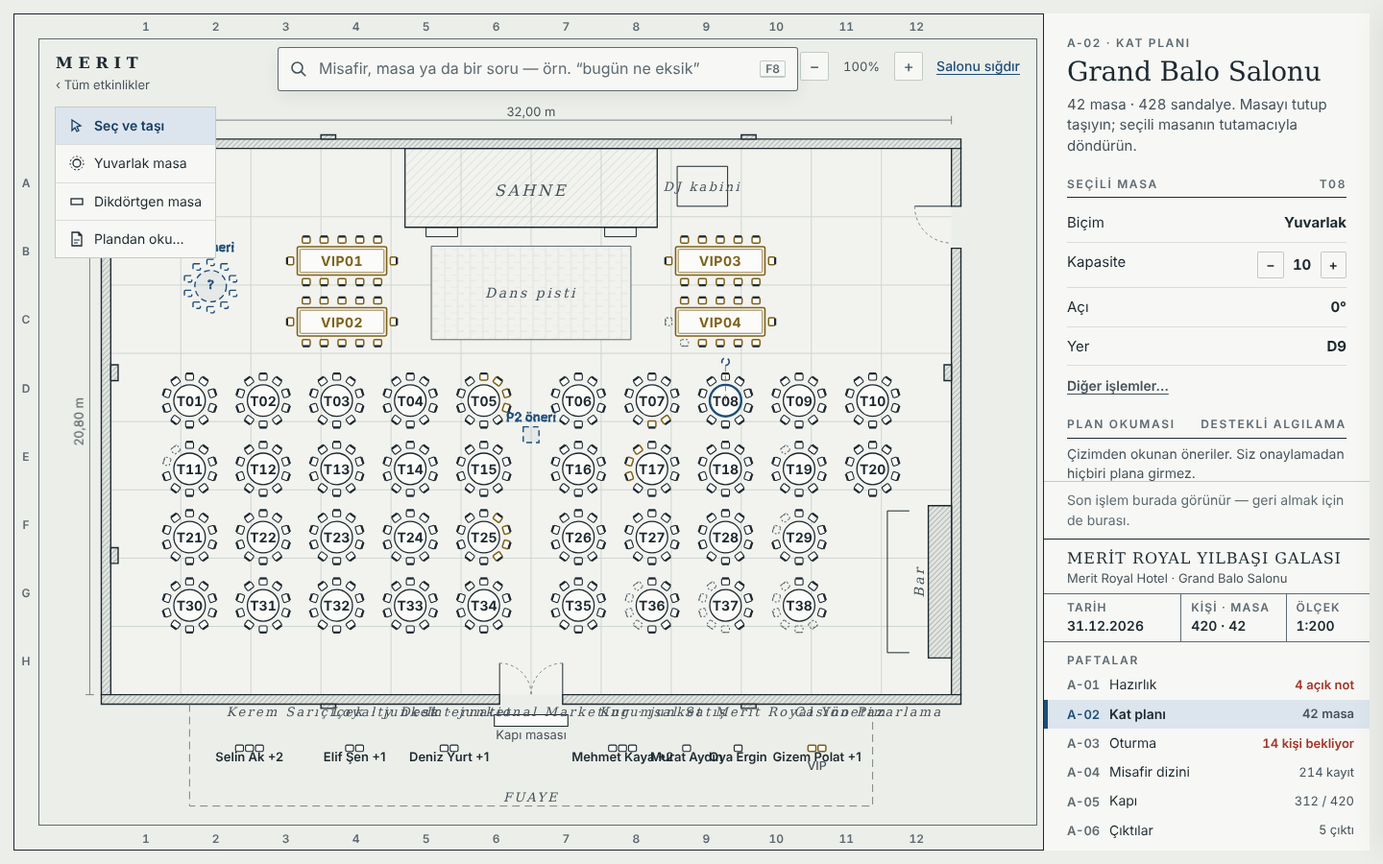
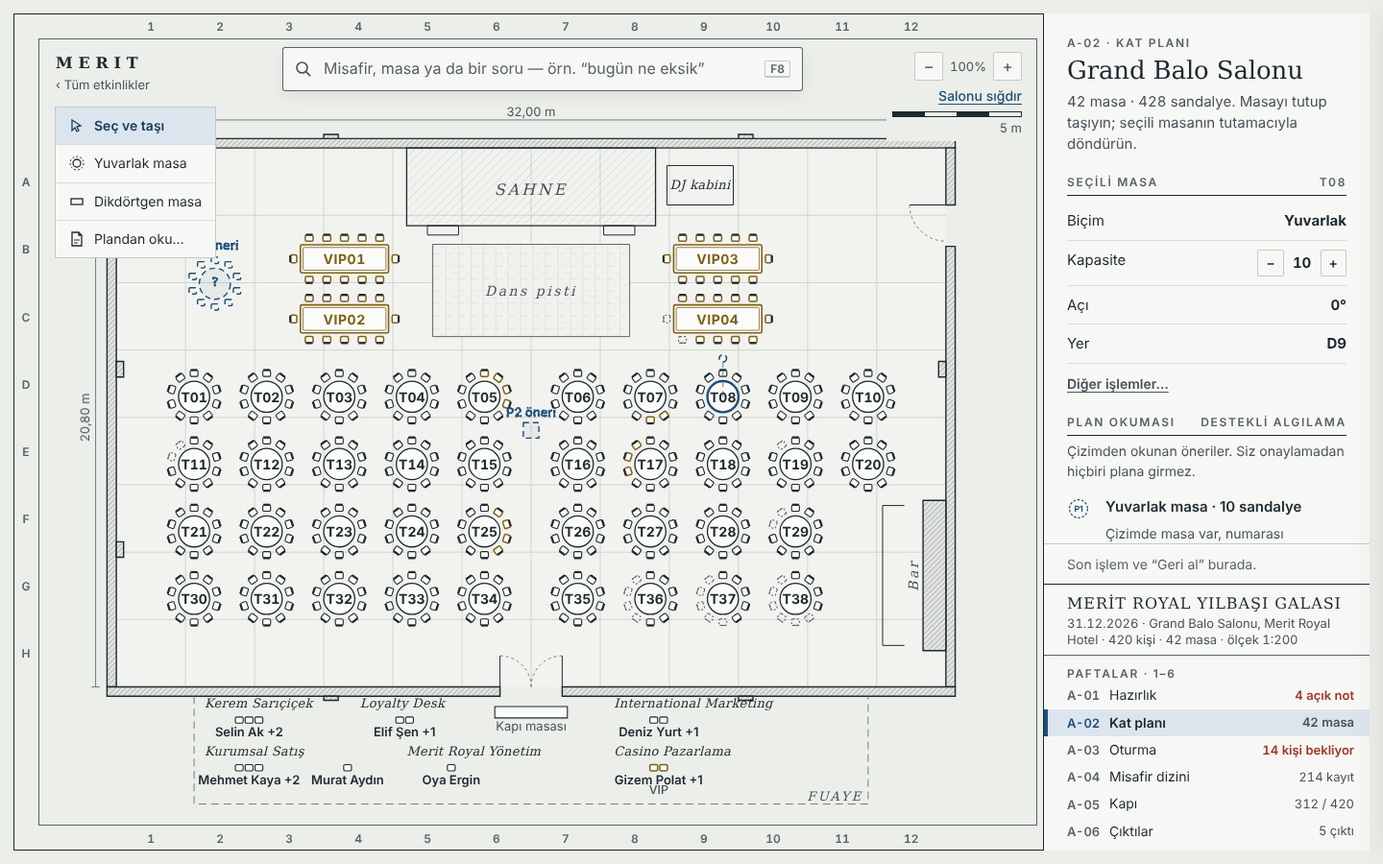
Redesign concepts 3 (Royal) and 4 (Atlas) final — all five proposals complete
Claude-Session: https://claude.ai/code/session_01Ak6diUNXKQisc6dYh4daPW

diff --git a/benchmarks/ux/redesign/4-atlas/index.html b/benchmarks/ux/redesign/4-atlas/index.html
@@ -6,7 +6,7 @@
 <title>Merit Atlas</title>
 <style>
 :root{
-  --paper:#ECEEE9; --sheet:#F7F8F5; --table:#FBFBF9; --ink:#1D2930; --ink2:#46525A; --ink3:#5E6A71;
+  --paper:#ECEEE9; --sheet:#F7F8F5; --table:#FBFBF9; --ink:#1D2930; --ink2:#46525A; --ink3:#566269;
   --rule:#C3CAC5; --rule2:#D9DDD8; --grid:#DEE2DD;
   --pru:#1E4D78; --pru2:#173D60; --pruw:#DCE5EE; --red:#A2352A; --redw:#F2E1DC; --gilt:#7E6119; --giltw:#EDE4CC;
   --serif:"Iowan Old Style","Palatino Linotype",Palatino,"Book Antiqua","P052","URW Palladio L",Georgia,"DejaVu Serif",serif;
@@ -43,16 +43,18 @@ kbd{font:600 12px var(--sans);color:var(--ink3);border:1px solid var(--rule);bor
 #corner .mark{font-family:var(--serif);font-size:16px;letter-spacing:.36em;font-weight:600}
 #corner .back{display:block;margin-top:2px;font-size:13px;color:var(--ink2)}
 #corner .back:hover{color:var(--pru)}
-#furn{position:absolute;top:54px;right:calc(var(--nw) + 38px);display:flex;align-items:center;gap:14px;font-size:13px;color:var(--ink2)}
+#furn{position:absolute;top:50px;right:calc(var(--nw) + 30px);display:flex;flex-direction:column;align-items:flex-end;gap:6px;font-size:13px;color:var(--ink2);background:var(--paper);padding:4px 6px}
+#furn .zr{display:flex;align-items:center;gap:4px}
+#corner{background:var(--paper);padding:4px 10px 6px;margin:-4px -10px}
 #furn .zb{width:30px;height:30px;display:grid;place-items:center;box-shadow:inset 0 0 0 1px var(--rule);background:var(--sheet);border-radius:2px;font-size:17px;line-height:1}
 #furn .zb:hover{box-shadow:inset 0 0 0 1px var(--ink3)}
 #scalebar{display:flex;flex-direction:column;align-items:flex-start;gap:2px}
 #scalebar .bar{height:6px;border:1px solid var(--ink);background:linear-gradient(90deg,var(--ink) 0 25%,transparent 25% 50%,var(--ink) 50% 75%,transparent 75%)}
 
 /* finder / assistant: the one instrument */
-#finderWrap{position:absolute;top:50px;left:40px;right:calc(var(--nw) + 20px);display:flex;justify-content:center;pointer-events:none;z-index:8}
-#finder{pointer-events:auto;width:min(540px,44vw);position:relative;transition:width .25s}
-.door #finder{width:min(660px,52vw)}
+#finderWrap{position:absolute;top:50px;left:200px;right:calc(var(--nw) + 170px);display:flex;justify-content:center;pointer-events:none;z-index:8}
+#finder{pointer-events:auto;width:min(540px,100%);position:relative;transition:width .25s}
+.door #finder{width:min(660px,100%)}
 #fbox{display:flex;align-items:center;gap:10px;height:44px;padding:0 12px;background:var(--sheet);box-shadow:0 0 0 1px var(--ink3),0 6px 18px rgba(29,41,48,.07);border-radius:2px}
 .door #fbox{height:54px;box-shadow:0 0 0 1.5px var(--ink),0 6px 18px rgba(29,41,48,.08)}
 #fbox input{flex:1;border:0;background:transparent;outline:none;font-size:16px;min-width:0}
@@ -91,7 +93,7 @@ kbd{font:600 12px var(--sans);color:var(--ink3);border:1px solid var(--rule);bor
 /* notes column + title block */
 #notes{position:absolute;top:14px;right:14px;bottom:14px;width:var(--nw);background:var(--sheet);border-left:1.5px solid var(--ink);display:flex;flex-direction:column;transition:width .38s cubic-bezier(.2,.7,.2,1);z-index:6}
 #nBody{flex:1;overflow:auto;padding:22px 24px 12px}
-#nBody h2{font-family:var(--serif);font-weight:500;font-size:28px;line-height:1.15;margin:6px 0 6px;letter-spacing:-.005em}
+#nBody h2{font-family:var(--serif);font-weight:500;font-size:26px;line-height:1.15;margin:6px 0 6px;letter-spacing:-.005em}
 #nBody .lede{color:var(--ink2);margin:0 0 16px;font-size:15px}
 .sec{margin-top:20px}
 .sec>.eyebrow{display:flex;justify-content:space-between;border-bottom:1px solid var(--ink);padding-bottom:5px;margin-bottom:6px}
@@ -108,20 +110,15 @@ kbd{font:600 12px var(--sans);color:var(--ink3);border:1px solid var(--rule);bor
 .tally .bar{grid-column:1/-1;height:4px;background:var(--rule2);position:relative}
 .tally .bar i{position:absolute;left:0;top:0;bottom:0;background:var(--ink);transition:width .3s}
 .big{font-family:var(--serif);font-size:40px;line-height:1;letter-spacing:-.01em}
-#status{flex:none;min-height:46px;padding:9px 24px;border-top:1px solid var(--rule);font-size:14px;color:var(--ink2);display:flex;align-items:center;gap:10px}
+#status{flex:none;min-height:42px;padding:8px 24px;border-top:1px solid var(--rule);font-size:14px;color:var(--ink2);display:flex;align-items:center;gap:10px}
 #status b{color:var(--ink);font-weight:600}
-#status:empty::before{content:"Son işlem burada görünür — geri almak için de burası.";color:var(--ink3)}
+#status:empty::before{content:"Son işlem ve “Geri al” burada.";color:var(--ink3)}
+#status .lnk{white-space:nowrap}
 #tblock{flex:none;border-top:1.5px solid var(--ink);font-size:13px}
 #tblock .tt{padding:10px 16px 8px 24px;font-family:var(--serif);font-size:16px;letter-spacing:.06em;text-transform:uppercase;line-height:1.25}
 #tblock .tt small{display:block;font-family:var(--sans);text-transform:none;letter-spacing:0;font-size:13px;color:var(--ink2);margin-top:2px}
-#tblock .cells{display:grid;grid-template-columns:1.3fr 1fr .8fr;border-top:1px solid var(--ink3)}
-#tblock .cells div{padding:5px 10px 6px 24px;border-left:1px solid var(--ink3)}
-#tblock .cells div+div{padding-left:10px}
-#tblock .cells div:first-child{border-left:0}
-#tblock .cells span{display:block;font-size:12px;letter-spacing:.1em;text-transform:uppercase;color:var(--ink3);font-weight:600}
-#tblock .cells b{font-weight:600;font-size:14px}
 #sheets{border-top:1px solid var(--ink3);padding:4px 0 6px}
-#sheets .sh{display:grid;grid-template-columns:44px 1fr auto;align-items:center;width:100%;text-align:left;padding:5px 16px 5px 24px;font-size:14px;position:relative}
+#sheets .sh{display:grid;grid-template-columns:44px 1fr auto;align-items:center;width:100%;text-align:left;padding:4px 16px 4px 24px;font-size:14px;position:relative}
 #sheets .sh:hover{background:var(--rule2)}
 #sheets .sh.cur{background:var(--pruw);font-weight:600}
 #sheets .sh.cur::before{content:"";position:absolute;left:0;top:0;bottom:0;width:4px;background:var(--pru)}
@@ -220,6 +217,7 @@ kbd{font:600 12px var(--sans);color:var(--ink3);border:1px solid var(--rule);bor
 .gridl{stroke:var(--grid);stroke-width:1;vector-effect:non-scaling-stroke}
 .plan .gridl{stroke:#CFD5D0}
 .place{font-family:var(--serif)!important;font-style:italic;fill:var(--ink2);letter-spacing:.18em}
+.place.tight{letter-spacing:.02em;fill:var(--ink)}
 .u14{font-size:calc(var(--u) * 14px)}
 .u13{font-size:calc(var(--u) * 13px)}
 .u16{font-size:calc(var(--u) * 16px)}
@@ -230,7 +228,7 @@ kbd{font:600 12px var(--sans);color:var(--ink3);border:1px solid var(--rule);bor
 .vipring{fill:none;stroke:var(--gilt);stroke-width:.8;vector-effect:non-scaling-stroke}
 .tl{font-weight:650;fill:var(--ink);text-anchor:middle;dominant-baseline:central;font-size:calc(var(--u) * 14px);font-variant-numeric:tabular-nums;pointer-events:none}
 .vip .tl{fill:var(--gilt)}
-.fc{fill:var(--pru);font-weight:600;text-anchor:middle;dominant-baseline:central;font-size:calc(var(--u) * 12.5px);display:none;pointer-events:none}
+.fc{fill:var(--pru);paint-order:stroke;stroke:#ECEEE9;stroke-width:calc(var(--u) * 4px);stroke-linejoin:round;font-weight:700;text-anchor:middle;dominant-baseline:central;font-size:calc(var(--u) * 12.5px);display:none;pointer-events:none}
 .cand .fc{display:block}
 .cand .tshape{stroke:var(--pru);stroke-width:2.2;fill:var(--pruw)}
 .halo{fill:var(--pruw);stroke:var(--pru);stroke-width:1.6;vector-effect:non-scaling-stroke;opacity:0;transition:opacity .2s}
@@ -259,6 +257,9 @@ kbd{font:600 12px var(--sans);color:var(--ink3);border:1px solid var(--rule);bor
 .nm{display:none;fill:var(--ink);font-size:calc(var(--u) * 12px);dominant-baseline:central;pointer-events:none}
 .nm.co{fill:var(--ink2);font-style:italic}
 .lod2 .nm,.tbl.focus .nm{display:block}
+.tiny .foyer text{display:none}
+.tiny .tl{font-size:calc(var(--u) * 12px)}
+.focusing .tbl:not(.focus){opacity:.38;transition:opacity .3s}
 .mk{pointer-events:none}
 .mk path{fill:var(--sheet);stroke:var(--red);stroke-width:1.6;vector-effect:non-scaling-stroke}
 .mk text{fill:var(--red);font-weight:700;text-anchor:middle;dominant-baseline:central;font-size:12px}
@@ -294,14 +295,14 @@ kbd{font:600 12px var(--sans);color:var(--ink3);border:1px solid var(--rule);bor
 #home .mark{font-family:var(--serif);font-size:16px;letter-spacing:.36em;font-weight:600}
 #home h1{font-family:var(--serif);font-weight:500;font-size:46px;letter-spacing:-.01em;margin:26px 0 4px;line-height:1.05}
 #home .sub{color:var(--ink2);font-size:16px;margin:0}
-#strip{position:absolute;left:58px;right:58px;top:46%;transform:translateY(-50%);display:flex;align-items:stretch;justify-content:center;gap:0}
+#strip{position:absolute;left:58px;right:58px;top:54%;transform:translateY(-50%);display:flex;align-items:stretch;justify-content:center;gap:0}
 .plate{width:clamp(170px,13.2vw,260px);padding:0 14px;display:flex;flex-direction:column;cursor:pointer;position:relative}
-.plate .dr{height:clamp(120px,9.4vw,180px);display:flex;align-items:flex-end;justify-content:center;padding-bottom:16px}
+.plate .dr{height:clamp(150px,12vw,230px);display:flex;align-items:flex-end;justify-content:center;padding-bottom:16px}
 .plate .dr svg{width:100%;height:100%;overflow:visible}
 .plate .cap{border-top:1.5px solid var(--ink);padding-top:12px;position:relative}
 .plate .cap::before{content:"";position:absolute;top:-6px;left:0;width:1.5px;height:11px;background:var(--ink)}
 .plate .dt{font-family:var(--serif);font-size:15px;color:var(--ink2)}
-.plate .nm2{font-family:var(--serif);font-size:19px;line-height:1.2;margin:2px 0 4px}
+.plate .nm2{font-family:var(--serif);font-size:20px;line-height:1.2;margin:2px 0 4px}
 .plate .vn{font-size:14px;color:var(--ink2)}
 .plate .ss{font-size:14px;margin-top:6px;font-weight:600}
 .plate .ss.red{color:var(--red)}
@@ -314,7 +315,7 @@ kbd{font:600 12px var(--sans);color:var(--ink3);border:1px solid var(--rule);bor
 .plate.new .dr{opacity:1}
 .meridian{width:110px;position:relative;flex:none}
 .meridian::before{content:"";position:absolute;left:50%;top:-40px;bottom:-30px;border-left:1.5px dashed var(--pru)}
-.meridian .lab{position:absolute;left:50%;transform:translateX(-50%);top:calc(clamp(120px,9.4vw,180px) - 4px);background:var(--paper);padding:4px 6px;text-align:center;font-size:13px;color:var(--pru2);font-weight:600;white-space:nowrap;line-height:1.3}
+.meridian .lab{position:absolute;left:50%;transform:translateX(-50%);top:calc(clamp(150px,12vw,230px) - 4px);background:var(--paper);padding:4px 6px;text-align:center;font-size:13px;color:var(--pru2);font-weight:600;white-space:nowrap;line-height:1.3}
 .side{position:absolute;top:calc(clamp(120px,9.4vw,180px) + 40px);font-size:12px;letter-spacing:.14em;text-transform:uppercase;color:var(--ink3);font-weight:600}
 #hfoot{position:absolute;left:58px;right:58px;bottom:42px;display:flex;justify-content:space-between;align-items:flex-end;font-size:14px;color:var(--ink2)}
 #hmsg{min-height:22px;color:var(--ink)}
@@ -375,11 +376,9 @@ kbd{font:600 12px var(--sans);color:var(--ink3);border:1px solid var(--rule);bor
   </div></div>
 
   <div id="furn">
-    <div id="scalebar"><div class="bar" id="sbar"></div><span class="num" id="slab">0 — 5 m</span></div>
-    <button class="zb" id="zOut" aria-label="Uzaklaş">−</button>
-    <span class="num" id="zPct" style="min-width:40px;text-align:center">100%</span>
-    <button class="zb" id="zIn" aria-label="Yakınlaş">+</button>
+    <div class="zr"><button class="zb" id="zOut" aria-label="Uzaklaş">−</button><span class="num" id="zPct" style="min-width:44px;text-align:center">100%</span><button class="zb" id="zIn" aria-label="Yakınlaş">+</button></div>
     <button class="lnk" id="zFit" style="font-weight:500">Salonu sığdır</button>
+    <div id="scalebar" style="align-items:flex-end"><div class="bar" id="sbar"></div><span class="num" id="slab">5 m</span></div>
   </div>
 
   <div id="page"></div>
@@ -389,12 +388,7 @@ kbd{font:600 12px var(--sans);color:var(--ink3);border:1px solid var(--rule);bor
     <div id="nBody"></div>
     <div id="status" aria-live="polite"></div>
     <div id="tblock">
-      <div class="tt">Merit Royal Yılbaşı Galası<small>Merit Royal Hotel · Grand Balo Salonu</small></div>
-      <div class="cells">
-        <div><span>Tarih</span><b class="num">31.12.2026</b></div>
-        <div><span>Kişi · masa</span><b class="num">420 · 42</b></div>
-        <div><span>Ölçek</span><b class="num">1:200</b></div>
-      </div>
+      <div class="tt">Merit Royal Yılbaşı Galası<small class="num">31.12.2026 · Grand Balo Salonu, Merit Royal Hotel · 420 kişi · 42 masa · ölçek 1:200</small></div>
       <nav id="sheets" aria-label="Paftalar"></nav>
     </div>
   </aside>
@@ -428,7 +422,7 @@ const LAST=['Aksoy','Altun','Arıkan','Aydemir','Bakır','Başaran','Bulut','Ceb
 const HOSTS=['Merit Royal Yönetim','Kurumsal Satış','Casino Pazarlama','Otel Misafir İlişkileri'];
 const JUNKETS=['Kerem Sarıçiçek','Loyalty Desk','International Marketing'];
 const RW=1600,RH=1040,COLW=RW/12,ROWH=RH/8;
-const CB={x:-50,y:-78,w:1700,h:1338};
+const CB={x:-50,y:-78,w:1700,h:1356};
 
 const TABLES=[],TM={};
 function addTable(id,shape,cap,x,y,rot=0){const t={id,shape,cap,x,y,rot,vip:/^VIP/.test(id),seats:Array(cap).fill(null)};TABLES.push(t);TM[id]=t;return t}
@@ -508,14 +502,14 @@ function buildMap(){
   el('rect',{x:560,y:0,width:480,height:150,fill:'url(#stageh)',stroke:'#1D2930','stroke-width':1.3,'vector-effect':'non-scaling-stroke'},F);
   el('rect',{class:'thin',x:600,y:150,width:60,height:18,fill:'#F2F3EF'},F);el('rect',{class:'thin',x:940,y:150,width:60,height:18,fill:'#F2F3EF'},F);
   pl(F,800,80,'SAHNE','u16');
-  el('rect',{class:'thin',x:1078,y:34,width:96,height:76,fill:'#F2F3EF'},F);pl(F,1126,72,'DJ kabini','u13');
+  el('rect',{class:'thin',x:1062,y:34,width:128,height:76,fill:'#F2F3EF'},F);pl(F,1126,72,'DJ kabini','u13 tight');
   el('rect',{x:610,y:186,width:380,height:178,fill:'url(#parq)',stroke:'#5E6A71','stroke-width':1,'vector-effect':'non-scaling-stroke'},F);pl(F,800,275,'Dans pisti','u14');
   el('path',{class:'thin',d:'M1520 690 H1478 V960 H1520',fill:'#F7F8F5'},F);
   el('rect',{class:'wall',x:1556,y:680,width:44,height:290},F);
   const bt=pl(F,1538,825,'Bar','u14');bt.setAttribute('transform','rotate(-90 1538 825)');
   // foyer outside the entrance
-  el('path',{class:'hair',d:'M150 1058 V1252 H1450 V1058','stroke-dasharray':'8 5'},F);
-  pl(F,800,1235,'FUAYE','u13');
+  el('path',{class:'hair',d:'M150 1058 V1266 H1450 V1058','stroke-dasharray':'8 5'},F);
+  const fy=pl(F,1440,1252,'FUAYE','u13');fy.setAttribute('text-anchor','end');
   el('rect',{class:'doordesk',x:730,y:1078,width:140,height:22},F);
   const dd=el('text',{x:800,y:1124,class:'u13','text-anchor':'middle',fill:'#46525A'},F);dd.textContent='Kapı masası';
   // dimensions (plan sheet)
@@ -547,7 +541,7 @@ function buildTable(t){
   if(t.shape==='round')el('circle',{class:'tshape',r:30},g);else{el('rect',{class:'tshape',x:-85,y:-27,width:170,height:54,rx:3},g);}
   if(t.vip){if(t.shape==='round')el('circle',{class:'vipring',r:25},g);else el('rect',{class:'vipring',x:-80,y:-22,width:160,height:44,rx:2},g)}
   const lab=el('text',{class:'tl',transform:`rotate(${-t.rot})`},g);lab.textContent=t.id;
-  const fc=el('text',{class:'fc',y:t.shape==='round'?16:15,transform:`rotate(${-t.rot})`},g);t.fc=fc;
+  const fc=el('text',{class:'fc',y:t.shape==='round'?70:64,transform:`rotate(${-t.rot})`},g);t.fc=fc;
   t.geo.forEach((c,i)=>{const d=t.shape==='round'?14:12;const r=c.a*Math.PI/180;const x=c.x+Math.cos(r)*d,y=c.y+Math.sin(r)*d;
     let wa=((c.a+t.rot)%360+360)%360;const flip=wa>90&&wa<270;
     const tx=el('text',{class:'nm',x,y,transform:`rotate(${flip?c.a+180:c.a} ${x} ${y})`,'text-anchor':flip?'end':'start'},g);t.names.push(tx)});
@@ -565,19 +559,19 @@ function paintGuest(g){if(g.table)paintTable(TM[g.table])}
 /* foyer: unseated parties stand outside the door */
 const FOYER=[];
 function buildFoyer(){
-  const groups=[['Kerem Sarıçiçek','junket',220],['Loyalty Desk','junket',420],['International Marketing','junket',600],['Kurumsal Satış','',930],['Merit Royal Yönetim','',1150],['Casino Pazarlama','',1300]];
+  const groups=[['Kerem Sarıçiçek',170,1080],['Loyalty Desk',470,1080],['International Marketing',960,1080],['Kurumsal Satış',170,1172],['Merit Royal Yönetim',560,1172],['Casino Pazarlama',960,1172]];
   L.foyer.innerHTML='';FOYER.length=0;
-  groups.forEach(([host,kind,x])=>{const mem=G.filter(g=>g.host===host&&UNSEATED.some(u=>u[0]===g.name));if(!mem.length)return;
-    const h=el('text',{x,y:1080,class:'place u13','text-anchor':'start'},L.foyer);h.textContent=host+(kind?' · junket':'');
-    let cx=x;mem.forEach(g=>{const w=Math.max(g.pax*19+8,96);FOYER.push({g,x:cx,y:1150,w});cx+=w+26})});
+  groups.forEach(([host,x,y])=>{const mem=G.filter(g=>g.host===host&&UNSEATED.some(u=>u[0]===g.name));if(!mem.length)return;
+    const h=el('text',{x,y,class:'place tight u13','text-anchor':'start'},L.foyer);h.textContent=host;
+    let cx=x;mem.forEach(g=>{FOYER.push({g,x:cx,y:y+32,w:180});cx+=190})});
   FOYER.forEach(drawTok)}
 function drawTok(f){if(f.el)f.el.remove();const g=f.g;const o=el('g',{class:'tok'+(g.vip?' vgt':''),'data-g':g.id,transform:`translate(${f.x} ${f.y})`},L.foyer);f.el=o;
-  el('rect',{x:-4,y:-30,width:f.w,height:70,fill:'transparent'},o);
+  el('rect',{x:-4,y:-24,width:f.w-12,height:72,fill:'transparent'},o);
   const cw=g.pax*19-4;const sx=(f.w-8-cw)/2;
   for(let i=0;i<g.pax;i++)el('rect',{class:'tb',x:sx+i*19,y:-14,width:15,height:12,rx:2.5},o);
-  const t1=el('text',{x:(f.w-8)/2,y:16},o);t1.textContent=g.name+(g.extra?' +'+g.extra:'');
-  if(g.table){o.setAttribute('class','tok gone');t1.textContent='→ '+g.table+(g.draft?' (taslak)':'');const t2=el('text',{x:(f.w-8)/2,y:34,class:'h'},o);t2.textContent=g.name}
-  else if(g.vip){const t2=el('text',{x:(f.w-8)/2,y:34,class:'h',fill:'#7E6119'},o);t2.textContent=g.vip}
+  const t1=el('text',{x:(f.w-8)/2,y:24},o);t1.textContent=g.name+(g.extra?' +'+g.extra:'');
+  if(g.table){o.setAttribute('class','tok gone');t1.textContent='→ '+g.table+(g.draft?' (taslak)':'');const t2=el('text',{x:(f.w-8)/2,y:42,class:'h'},o);t2.textContent=g.name}
+  else if(g.vip){const t2=el('text',{x:(f.w-8)/2,y:42,class:'h',fill:'#7E6119'},o);t2.textContent=g.vip}
   if(S.selG===g.id&&!g.table)o.classList.add('sel')}
 function repaintTok(g){const f=FOYER.find(f=>f.g===g);if(f)drawTok(f)}
 
@@ -586,7 +580,7 @@ const V={s:1,tx:0,ty:0,fit:1};
 function area(){const W=innerWidth,H=innerHeight,nw=S.nwPx;return{x0:58,y0:112,x1:W-14-nw-20-18,y1:H-40-16}}
 function fitView(){const a=area();const s=Math.min((a.x1-a.x0)/CB.w,(a.y1-a.y0)/CB.h);return{s,tx:a.x0+((a.x1-a.x0)-CB.w*s)/2-CB.x*s,ty:a.y0+((a.y1-a.y0)-CB.h*s)/2-CB.y*s}}
 function apply(){world.setAttribute('transform',`translate(${V.tx} ${V.ty}) scale(${V.s})`);world.style.setProperty('--u',(1/V.s).toFixed(4));
-  S.k=V.s/V.fit;svg.classList.toggle('lod2',S.k>=2.2);updTicks();updLead();placeNote();placePage();
+  S.k=V.s/V.fit;svg.classList.toggle('lod2',S.k>=4.2);svg.classList.toggle('tiny',V.s<.5);updTicks();updLead();placeNote();placePage();
   $('#zPct').textContent=Math.round(S.k*100)+'%';const m5=250*V.s;$('#sbar').style.width=m5+'px';}
 let anim=null;
 function animTo(t,dur=460){cancelAnimationFrame(anim);if(RM)dur=0;const f={...V},t0=performance.now();
@@ -595,7 +589,7 @@ function layout(animate){const W=innerWidth,H=innerHeight;
   S.nwPx=S.sheet==='A-04'?Math.min(Math.round(W*.47),880):(W>=1800?384:340);
   document.documentElement.style.setProperty('--nw',S.nwPx+'px');
   const r=$('#clipR');r.setAttribute('x',40);r.setAttribute('y',40);r.setAttribute('width',Math.max(0,W-40-S.nwPx-34));r.setAttribute('height',H-80);
-  const f=fitView();V.fit=f.s;if(S.focusT){const t=focusXf(S.focusT,3);animate?animTo(t):(Object.assign(V,t),apply())}else{animate?animTo(f):(Object.assign(V,f),apply())}}
+  const f=fitView();V.fit=f.s;if(S.focusT){const t=focusXf(S.focusT,2.3);animate?animTo(t):(Object.assign(V,t),apply())}else{animate?animTo(f):(Object.assign(V,f),apply())}}
 function focusXf(id,k){const t=TM[id],a=area(),s=V.fit*k;const cx=(a.x0+a.x1)/2,cy=(a.y0+a.y1)/2+20;return{s,tx:cx-t.x*s-(S.sheet==='A-04'?0:60),ty:cy-t.y*s}}
 function zoomAt(f,px,py){const s=Math.max(V.fit*.7,Math.min(V.fit*6,V.s*f));const k=s/V.s;V.tx=px-(px-V.tx)*k;V.ty=py-(py-V.ty)*k;V.s=s;apply()}
 function updTicks(){const box=$('#ticks');const W=innerWidth,H=innerHeight;const xR=W-14-S.nwPx-20;let h='';
@@ -621,13 +615,13 @@ function updLead(){const P=$('#leadP'),A=$('#leadA'),B=$('#leadB');const hide=()
 /* ------------------------------------------------------------------ markers (keynotes) */
 function issues(){const out=[];const T=totals();
   const un=G.filter(g=>!g.table);
-  out.push({n:1,t:un.length?`${T.uns} kişi yer bekliyor`:'Herkesin yeri var',d:un.length?`${un.length} kayıt fuayede duruyor. Oturma paftasında onları masalara taşıyın.`:'Bekleyen misafir yok.',ok:!un.length,at:{x:150,y:1070},tables:[],go:'A-03',goTxt:'Oturma paftasını aç'});
+  out.push({n:1,t:un.length?`${T.uns} kişi yer bekliyor`:'Herkesin yeri var',d:un.length?`${un.length} kayıt fuayede duruyor. Oturma paftasında onları masalara taşıyın.`:'Bekleyen misafir yok.',ok:!un.length,at:{x:150,y:1160},tables:[],go:'A-03',goTxt:'Oturma paftasını aç'});
   const kk=GM[G.find(g=>g.name==='Kerem Koç').id],hk=G.find(g=>g.name==='Hülya Keskin');const same=kk.table&&kk.table===hk.table;
   out.push({n:2,t:'Kural: Kerem Koç ile Hülya Keskin ayrı oturmalı',d:same?`İkisi de ${sfx(kk.table,LOC)} (${ref(TM[kk.table])}).`:'Kural sağlanıyor.',ok:!same,tables:same?[kk.table]:[],goTxt:same?'Masayı göster':''});
   const vipOff=G.filter(g=>g.vip&&g.table&&!TM[g.table].vip&&!S.ack.has(g.id));
   out.push({n:3,t:'Kural: VIP misafir VIP masada',d:vipOff.length?vipOff.map(g=>`${g.name}${g.extra?' +'+g.extra:''} ${sfx(g.table,LOC)}`).join(', ')+'.':'Kural sağlanıyor ya da bilinçli olarak onaylandı.',ok:!vipOff.length,tables:vipOff.map(g=>g.table),ackG:vipOff[0]&&vipOff[0].id,goTxt:vipOff.length?'Masayı göster':''});
   const op=S.sugg.filter(s=>s.state==='open');
-  out.push({n:4,t:op.length?`Plan: ${op.length} öneri onay bekliyor`:'Plan önerileri bitti',d:op.length?'Çizimden okunanlar siz onaylamadan plana girmez.':'Tüm öneriler karara bağlandı.',ok:!op.length,at:op[0]?{x:op[0].x,y:op[0].y}:null,go:'A-02',goTxt:op.length?'Kat planını aç':''});
+  out.push({n:4,t:op.length?`Plan: ${op.length} öneri onay bekliyor`:'Plan önerileri bitti',d:op.length?'Çizimden okunanlar siz onaylamadan plana girmez.':'Tüm öneriler karara bağlandı.',ok:!op.length,at:op[0]?{x:op[0].x+48,y:op[0].y-50}:null,go:'A-02',goTxt:op.length?'Kat planını aç':''});
   return out}
 function drawMarks(){L.marks.innerHTML='';if(S.sheet!=='A-01')return;
   issues().forEach(i=>{if(i.ok)return;let p=i.at;if(!p&&i.tables[0]){const t=TM[i.tables[0]];p={x:t.x+52,y:t.y-50}}if(!p)return;
@@ -659,7 +653,7 @@ function setSheet(id,opts={}){const was=S.sheet;S.sheet=id;S.report=null;S.pendi
   layout(was==='A-04'||id==='A-04');if(id==='A-05'&&!opts.noFocus)setTimeout(()=>$('#q').focus(),60)}
 function renderSheetsNav(){const T=totals();const iss=issues().filter(i=>!i.ok).length;
   const hint={'A-01':[iss?iss+' açık not':'hazır',iss>0],'A-02':[TABLES.length+' masa',false],'A-03':[T.uns?T.uns+' kişi bekliyor':'herkes yerinde',T.uns>0],'A-04':[G.length+' kayıt',false],'A-05':[T.arr+' / '+T.pax,false],'A-06':['5 çıktı',false]};
-  $('#sheets').innerHTML='<div class="eyebrow" style="padding:6px 24px 2px">Paftalar</div>'+SHEETS.map(([id,n],i)=>`<button class="sh${S.sheet===id?' cur':''}" data-sheet="${id}" title="Kısayol: ${i+1}"><code>${id}</code><span>${n}</span><em class="${hint[id][1]?'red':''}">${hint[id][0]}</em></button>`).join('')}
+  $('#sheets').innerHTML='<div class="eyebrow" style="padding:6px 24px 0">Paftalar · 1–6</div>'+SHEETS.map(([id,n],i)=>`<button class="sh${S.sheet===id?' cur':''}" data-sheet="${id}" title="Kısayol: ${i+1}"><code>${id}</code><span>${n}</span><em class="${hint[id][1]?'red':''}">${hint[id][0]}</em></button>`).join('')}
 function renderNotes(){const b=$('#nBody');const T=totals();const sh=S.sheet;let h='';
   if(sh==='A-01'){const iss=issues(),open=iss.filter(i=>!i.ok);
     h=`<div class="eyebrow">A-01 · Hazırlık</div><h2>${open.length?`Hazır değil — ${open.length} not açık`:'Etkinlik hazır'}</h2>
@@ -732,7 +726,7 @@ function selectG(id,silent){S.selG=id;$$('.ie.on').forEach(e=>e.classList.remove
   const g=GM[id];
   if(S.sheet==='A-03'&&!g.table){TABLES.forEach(t=>{const f=freeOf(t);if(f>=g.pax){t.g.classList.add('cand');t.fc.textContent=f+' boş'}});light([]);return}
   const src=$(`.ie[data-g="${id}"]`)||$(`.fr[data-g="${id}"]`);if(src)src.classList.add('on');
-  if(S.sheet==='A-04'){$('#sel').innerHTML=selStrip();$('#sel').classList.add('on')}
+  if(S.sheet==='A-04'){$('#sel').innerHTML=selStrip();$('#sel').classList.add('on');light(g.table?[g.table]:[],$('#sel'));return}
   light(g.table?[g.table]:[],src)}
 
 /* ------------------------------------------------------------------ actions: arrival, seating */
@@ -821,8 +815,8 @@ function hlRow(i){const rows=$$('#fdrop .fr[data-g]');if(!rows.length)return;S.h
 function closeDrop(){$('#fdrop').classList.remove('on');$('#fdrop').innerHTML='';TABLES.forEach(t=>t.chairs.forEach(c=>c.classList.remove('hit')))}
 
 /* ------------------------------------------------------------------ table note (focus by zoom) */
-function openNote(id){S.focusT=id;TABLES.forEach(t=>t.g.classList.toggle('focus',t.id===id));renderNote();$('#tnote').classList.add('on');animTo(focusXf(id,3));light([id])}
-function closeNote(){if(!S.focusT)return;S.focusT=null;TABLES.forEach(t=>t.g.classList.remove('focus'));$('#tnote').classList.remove('on');}
+function openNote(id){S.focusT=id;svg.classList.add('focusing');TABLES.forEach(t=>t.g.classList.toggle('focus',t.id===id));renderNote();$('#tnote').classList.add('on');animTo(focusXf(id,2.3));light([id])}
+function closeNote(){if(!S.focusT)return;S.focusT=null;svg.classList.remove('focusing');TABLES.forEach(t=>t.g.classList.remove('focus'));$('#tnote').classList.remove('on');}
 function renderNote(){const t=TM[S.focusT];if(!t)return;const parties=[...new Set(t.seats.filter(Boolean).map(s=>s.g))].map(id=>GM[id]);const door=S.sheet==='A-05';
   const arr=t.seats.filter(s=>s&&s.k<GM[s.g].arrived).length;
   $('#tnote').innerHTML=`<header><h3>${t.id}${t.vip?' <span class="vip">VIP</span>':''}</h3><span class="num" style="font-size:14px;color:var(--ink2)">${ref(t)} · ${t.cap-freeOf(t)}/${t.cap} · ${arr} geldi</span></header>
@@ -830,7 +824,7 @@ function renderNote(){const t=TM[S.focusT];if(!t)return;const parties=[...new Se
   ${freeOf(t)?`<div class="tr" style="color:var(--ink3)"><span>${freeOf(t)} boş sandalye</span></div>`:''}</div>
   <footer><button class="lnk" id="nBack">Salona dön</button><span style="font-size:13px;color:var(--ink3)">İsimler sandalyelerin yanında</span></footer>`;
   $('#nBack').onclick=()=>{closeNote();light([]);animTo(fitView())};placeNote()}
-function placeNote(){if(!S.focusT)return;const t=TM[S.focusT],c=scr(t.x,t.y),n=$('#tnote');const off=(t.shape==='round'?120:170)*V.s;let x=c.x+off;const xR=innerWidth-S.nwPx-60;if(x+300>xR)x=c.x-off-300;n.style.left=Math.max(60,x)+'px';n.style.top=Math.max(100,Math.min(innerHeight-420,c.y-120))+'px'}
+function placeNote(){if(!S.focusT)return;const t=TM[S.focusT],c=scr(t.x,t.y),n=$('#tnote');const off=(t.shape==='round'?100:150)*V.s;let x=c.x+off;const xR=innerWidth-S.nwPx-60;if(x+300>xR)x=c.x-off-300;n.style.left=Math.max(60,x)+'px';n.style.top=Math.max(100,Math.min(innerHeight-420,c.y-120))+'px'}
 
 /* ------------------------------------------------------------------ reports */
 const REPORTS=[
@@ -1007,7 +1001,7 @@ function plateSVG(kind){const W=1600,H=1040;let s=`<svg viewBox="-40 -40 1680 11
   return s+'</svg>'}
 function renderHome(){const st=$('#strip');let h='';let crossed=false;
   EVENTS.forEach(ev=>{if(!ev.past&&!crossed){crossed=true;h+=`<div class="meridian" aria-hidden="true"><div class="lab">Bugün<br>2 Kasım 2026</div></div>`}
-    h+=`<div class="plate${ev.past?' past':''}${ev.main?' sel':''}" data-ev="${ev.id}" tabindex="0" role="button" aria-label="${esc(ev.n)}"><div class="dr">${plateSVG(ev.plan)}</div><div class="cap"><div class="dt">${ev.d}</div><div class="nm2">${esc(ev.n)}</div><div class="vn">${esc(ev.v)}</div><div class="ss${ev.red?' red':''}">${ev.past?'Salt okunur · ':''}${ev.s}</div><button class="ops" data-ops="${ev.id}">İşlemler…</button></div></div>`});
+    h+=`<div class="plate${ev.past?' past':''}${ev.main?' sel':''}" data-ev="${ev.id}" tabindex="0" role="button" aria-label="${esc(ev.n)}"><div class="dr">${plateSVG(ev.plan)}</div><div class="cap"><div class="dt">${ev.d.replace(' · ','<br>')}</div><div class="nm2">${esc(ev.n)}</div><div class="vn">${esc(ev.v)}</div><div class="ss${ev.red?' red':''}">${ev.past?'Salt okunur · ':''}${ev.s}</div><button class="ops" data-ops="${ev.id}">İşlemler…</button></div></div>`});
   h+=`<div class="plate new" data-new="1" tabindex="0" role="button"><div class="dr">${plateSVG('new')}</div><div class="cap" style="border-top-style:dashed"><div class="dt">Tarih seçin</div><div class="nm2">Yeni etkinlik</div><div class="vn">Boş başlar: masa, misafir yok</div></div></div>`;
   st.innerHTML=h;
   st.insertAdjacentHTML('beforeend','');}

diff --git a/benchmarks/ux/redesign/3-royal/index.html b/benchmarks/ux/redesign/3-royal/index.html
@@ -1000,6 +1000,7 @@ document.addEventListener('keydown',e=>{
 });
 $('#ccIn').addEventListener('keydown',e=>{if(e.key==='Enter'){ccAsk(e.target.value);e.target.value='';}});
 
+addEventListener('hashchange',()=>{const v=location.hash.slice(1).split('&')[0];if(VIEWS.find(x=>x.v===v)&&v!==S.view)go(v);});
 /* ================= boot ================= */
 (function boot(){
   const [v,...flags]=(location.hash.slice(1)||'home').split('&');

diff --git a/benchmarks/ux/redesign/4-atlas/NOTES.md b/benchmarks/ux/redesign/4-atlas/NOTES.md
@@ -1,0 +1,40 @@
+# 4 — Atlas: the event is a set of architectural drawings
+**Idea:** one full-bleed drawing of the room, laid out like an architect's sheet. It has a grid around the edge (A–H, 1–12), a title block and a notes column. Navigation is a **sheet list in the title block** (A-01 Hazırlık … A-06 Çıktılar, keys 1–6). Each sheet shows the same drawing with a different layer on top. There is no sidebar, no tab bar, no row of KPI tiles and no table grid.
+**Interaction model (new):** you point at the room or type into it; you do not move between screens.
+- **Door:** the one search field at the top pins results to the drawing. A thin line runs from the highlighted result to its table, and that guest's chairs are marked. Enter checks the guest in, and the chairs fill in place.
+- **Seating:** unseated guests stand in the drawn **foyer**, outside the door, as small groups of chairs. You drag a group onto a table, or click the group and then the table. Tables with enough free chairs show "N boş".
+- **Overview:** open issues are numbered **keynotes**, a real convention on architectural drawings. Each number sits on the drawing and in the notes column.
+- **Guests:** the guest list is set like an **atlas index**: "Yılmaz, Ahmet +3 ……… T05 D6". Every guest also has a grid reference, so a waiter hears "T05, D6".
+- **Zoom is how you navigate:**
+  - double-click a table to zoom to it: guest names appear around its chairs and a small note opens next to it;
+  - "Tüm etkinlikler" zooms out to the home screen, a timeline of event drawings with a "Bugün" line between past and upcoming events. Past events are read-only.
+- **Assistant (F8):** uses the same search field, so it is part of the drawing rather than a separate chat. For "mehmet kayayı t36ya oturt" it first draws the move on the room with dashed lines, then waits for "Uygula". It refuses honestly when a table is full and offers tables that have room. F10 opens the legend and help.
+
+**Why it suits Merit:** luxury hotels sell rooms, and this design treats the ballroom drawing as the product. The look is calm and suits an architectural office: cool vellum, ink, Prussian blue. Gold appears only on VIP tables and VIP guests' chairs, and red only for problems and no-shows.
+
+**"Too many buttons":** each sheet has at most one primary button, and it sits on the thing it acts on: "Giriş" on the guest's row, "Uygula" on the assistant's answer, "Kabul et" on a plan suggestion. Everything else is a text link or sits behind a ⋯ menu.
+- "Gelmedi" lives only in the row's ⋯ menu, so it cannot be pressed by mistake instead of "Giriş".
+- For a "+3" party you can tick each person in by clicking the chair boxes.
+
+**"The screen jumps":** nothing is re-laid-out by an action.
+- Checking a guest in changes only that row (the button becomes "Giriş 21:42 · Geri al" at the same width), that guest's chairs, and the counts, which use fixed-width digits.
+- A seated foyer group leaves a dashed placeholder ("→ T36") behind, so nothing slides into its place.
+- There is one fixed status line with "Geri al" just above the title block.
+- Only zooming moves the map, and only when you ask for it.
+
+**Contrast (WCAG, measured):**
+
+| Text | On paper #ECEEE9 | On note paper #F7F8F5 | On selection #DCE5EE |
+|---|---|---|---|
+| Ink #1D2930 | 12.7 | 14.0 | 11.7 |
+| Secondary #46525A | 6.9 | 7.5 | 6.3 |
+| Muted #566269 | 5.4 | 5.9 | 4.9 |
+| Prussian blue #1E4D78 | 7.5 | 8.3 | 6.9 |
+| Red #A2352A | 5.8 | 6.4 | — |
+| Gold #7E6119 | 5.0 | 5.5 | — |
+
+White on Prussian blue is 8.8 and white on red is 6.8. Body text is 14–16 px and nothing operational is below 12 px.
+
+**Cost:** high, about 6–9 weeks. It needs a scene-graph map renderer with a coordinate system, labels that stay the same size as you zoom, and a full-names view when zoomed in. The domain writers (assignment, arrival, Plan Doctor) stay as they are; the shell is replaced by one map and one notes column.
+
+**Risk:** everything depends on the room drawing. An event with no plan yet needs a strong blank state ("plan yok"), and so does a badly read plan. Users who expect lists must learn that the search field is the door list. The map has to stay fast at 1,000+ chairs: SVG works at 428 chairs, but a canvas fallback may be needed. Long Turkish names around chairs need care at the full-names zoom level.

diff --git a/benchmarks/ux/redesign/3-royal/NOTES.md b/benchmarks/ux/redesign/3-royal/NOTES.md
@@ -1,0 +1,24 @@
+# 3 — Merit Royal: "Etkinlik Defteri" (the maître d's book)
+
+**Idea.** The product is one open register on emerald casino felt. Every job is a two-page spread: the **left page lists**, the **right page works** on the one thing chosen. The floor plan is an atlas plate across both pages, with the fold on the dance floor.
+**Navigation.** No sidebar, tab bar or KPI row. You move with the book's thumb index on the fore-edge, which also shows each chapter's live status ("14 masasız", "312 / 420 geldi"). The F8 concierge is a note card that rises from the silk ribbon at the fold; F10 help is the back of that card.
+
+**Why Merit.** It uses the resort and casino's own materials: green baize, the reservation ledger, the escort card, a crest. Calm, symmetric pages for reading; an asymmetric right page for work. Gold appears only on real VIP marks and VIP tables.
+**"Too many buttons".** At most one primary action and one "Diğer" menu per page; rare actions are quiet links on the right page. Add, paste and Excel import open on the right page, so there are no modal stacks.
+**"The screen jumps".** A click changes only its own row or card.
+- Door: Giriş swaps one fixed-height zone for "Giriş yapıldı 21:42 · Geri al"; the row gets a tick; counters change digits only.
+- Gelmedi sits under a rule, far from Giriş, and has undo. Enter only ever checks in.
+- Seating: the seated row folds away and "→ T29 · Geri al" appears in a line fixed at the page foot. Rule breaks are footnotes, never pop-ups.
+
+**Contrast (measured, WCAG; body 15 px, nothing operational below 12 px, plan labels scaled per zoom).**
+- On paper #FAF6EC: ink 15.2, ink-2 8.6, ink-3 6.0, emerald link 9.1, VIP gold #755A22 6.0, oxblood 7.9.
+- Ivory on the emerald button 9.2; ink-3 on a thumb tab 4.7; on a selected row 5.3.
+- On the felt: text 12.9, muted 8.5.
+- Below 4.5 on purpose: tables that cannot take the selected guest are dimmed to 42 %.
+
+**Cost.** About 3–4 weeks of front end, no domain changes: a spread shell with thumb index and ribbon card, each screen re-cut into a left and a right page, the plan canvas reused as the plate, the existing F8 assistant re-housed in the card. Then screenshot, language and keyboard tests.
+
+**Risk.**
+- Overdo the metaphor (paper texture, page curls) and it becomes a costume; it must stay flat.
+- Pages are half-width at 1440, so the fold moves per chapter (36–60 %); some may find that unusual.
+- The dark felt goes against today's "one light palette" rule and needs the owner's yes.
